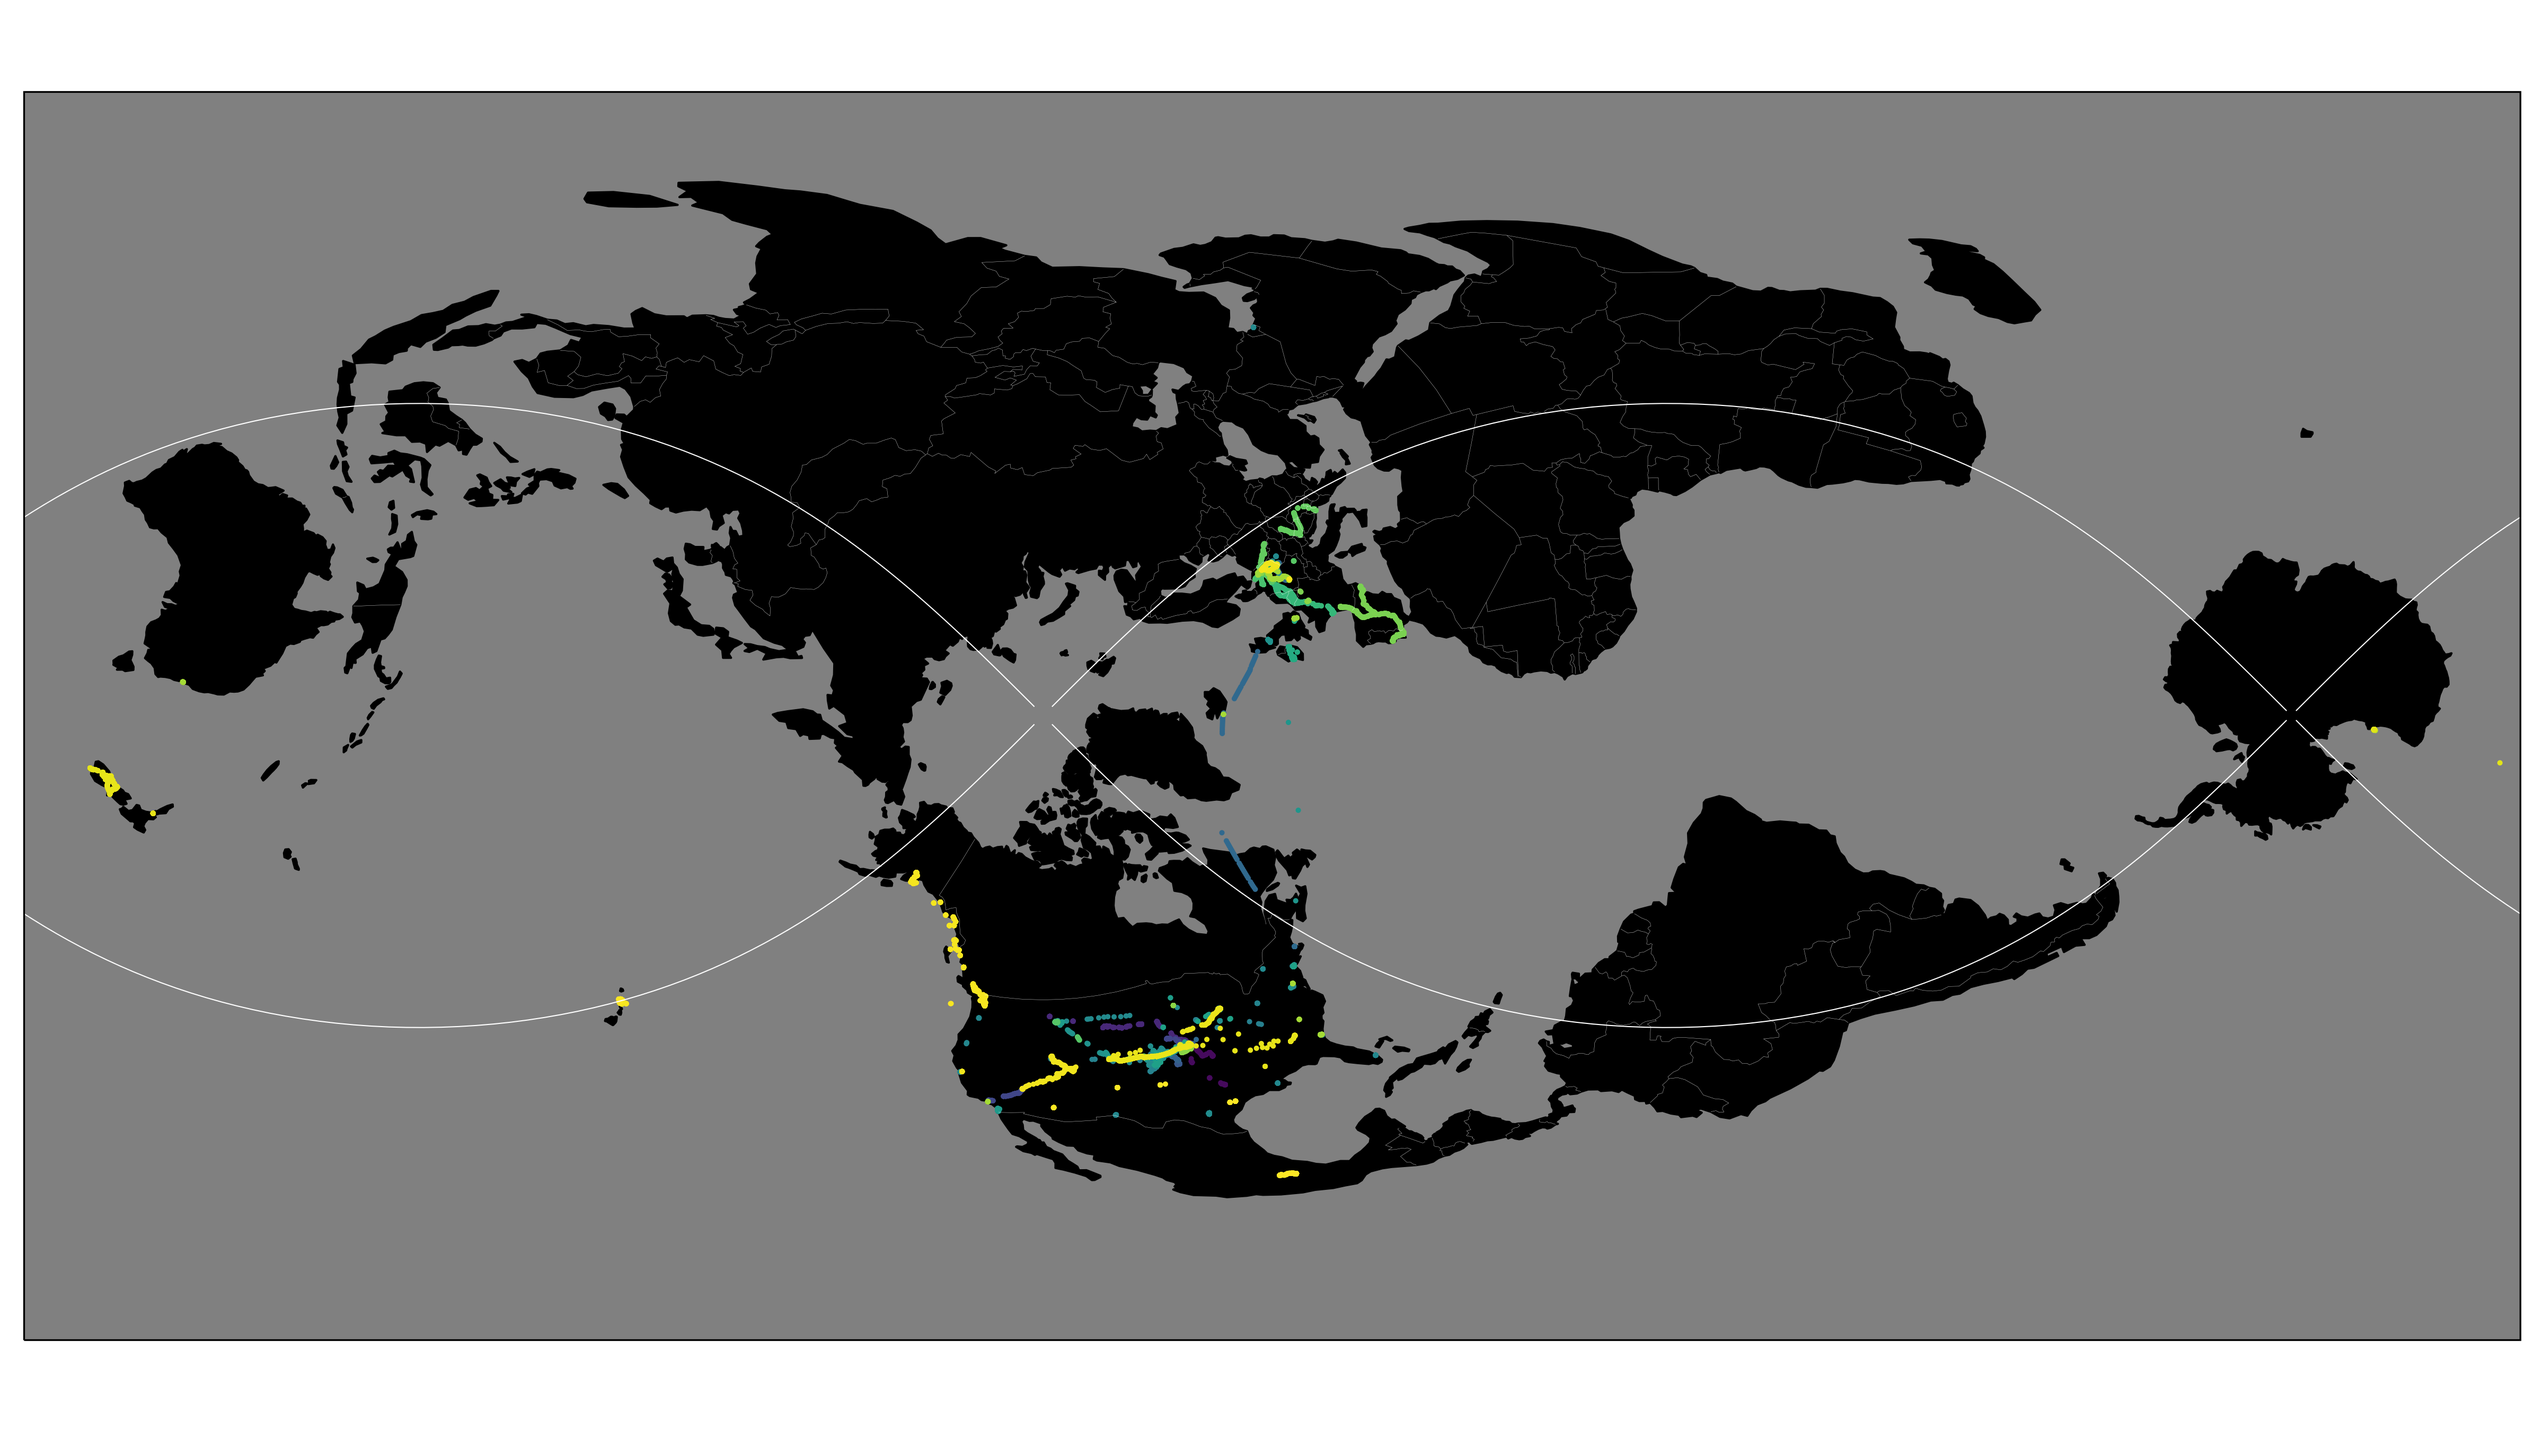
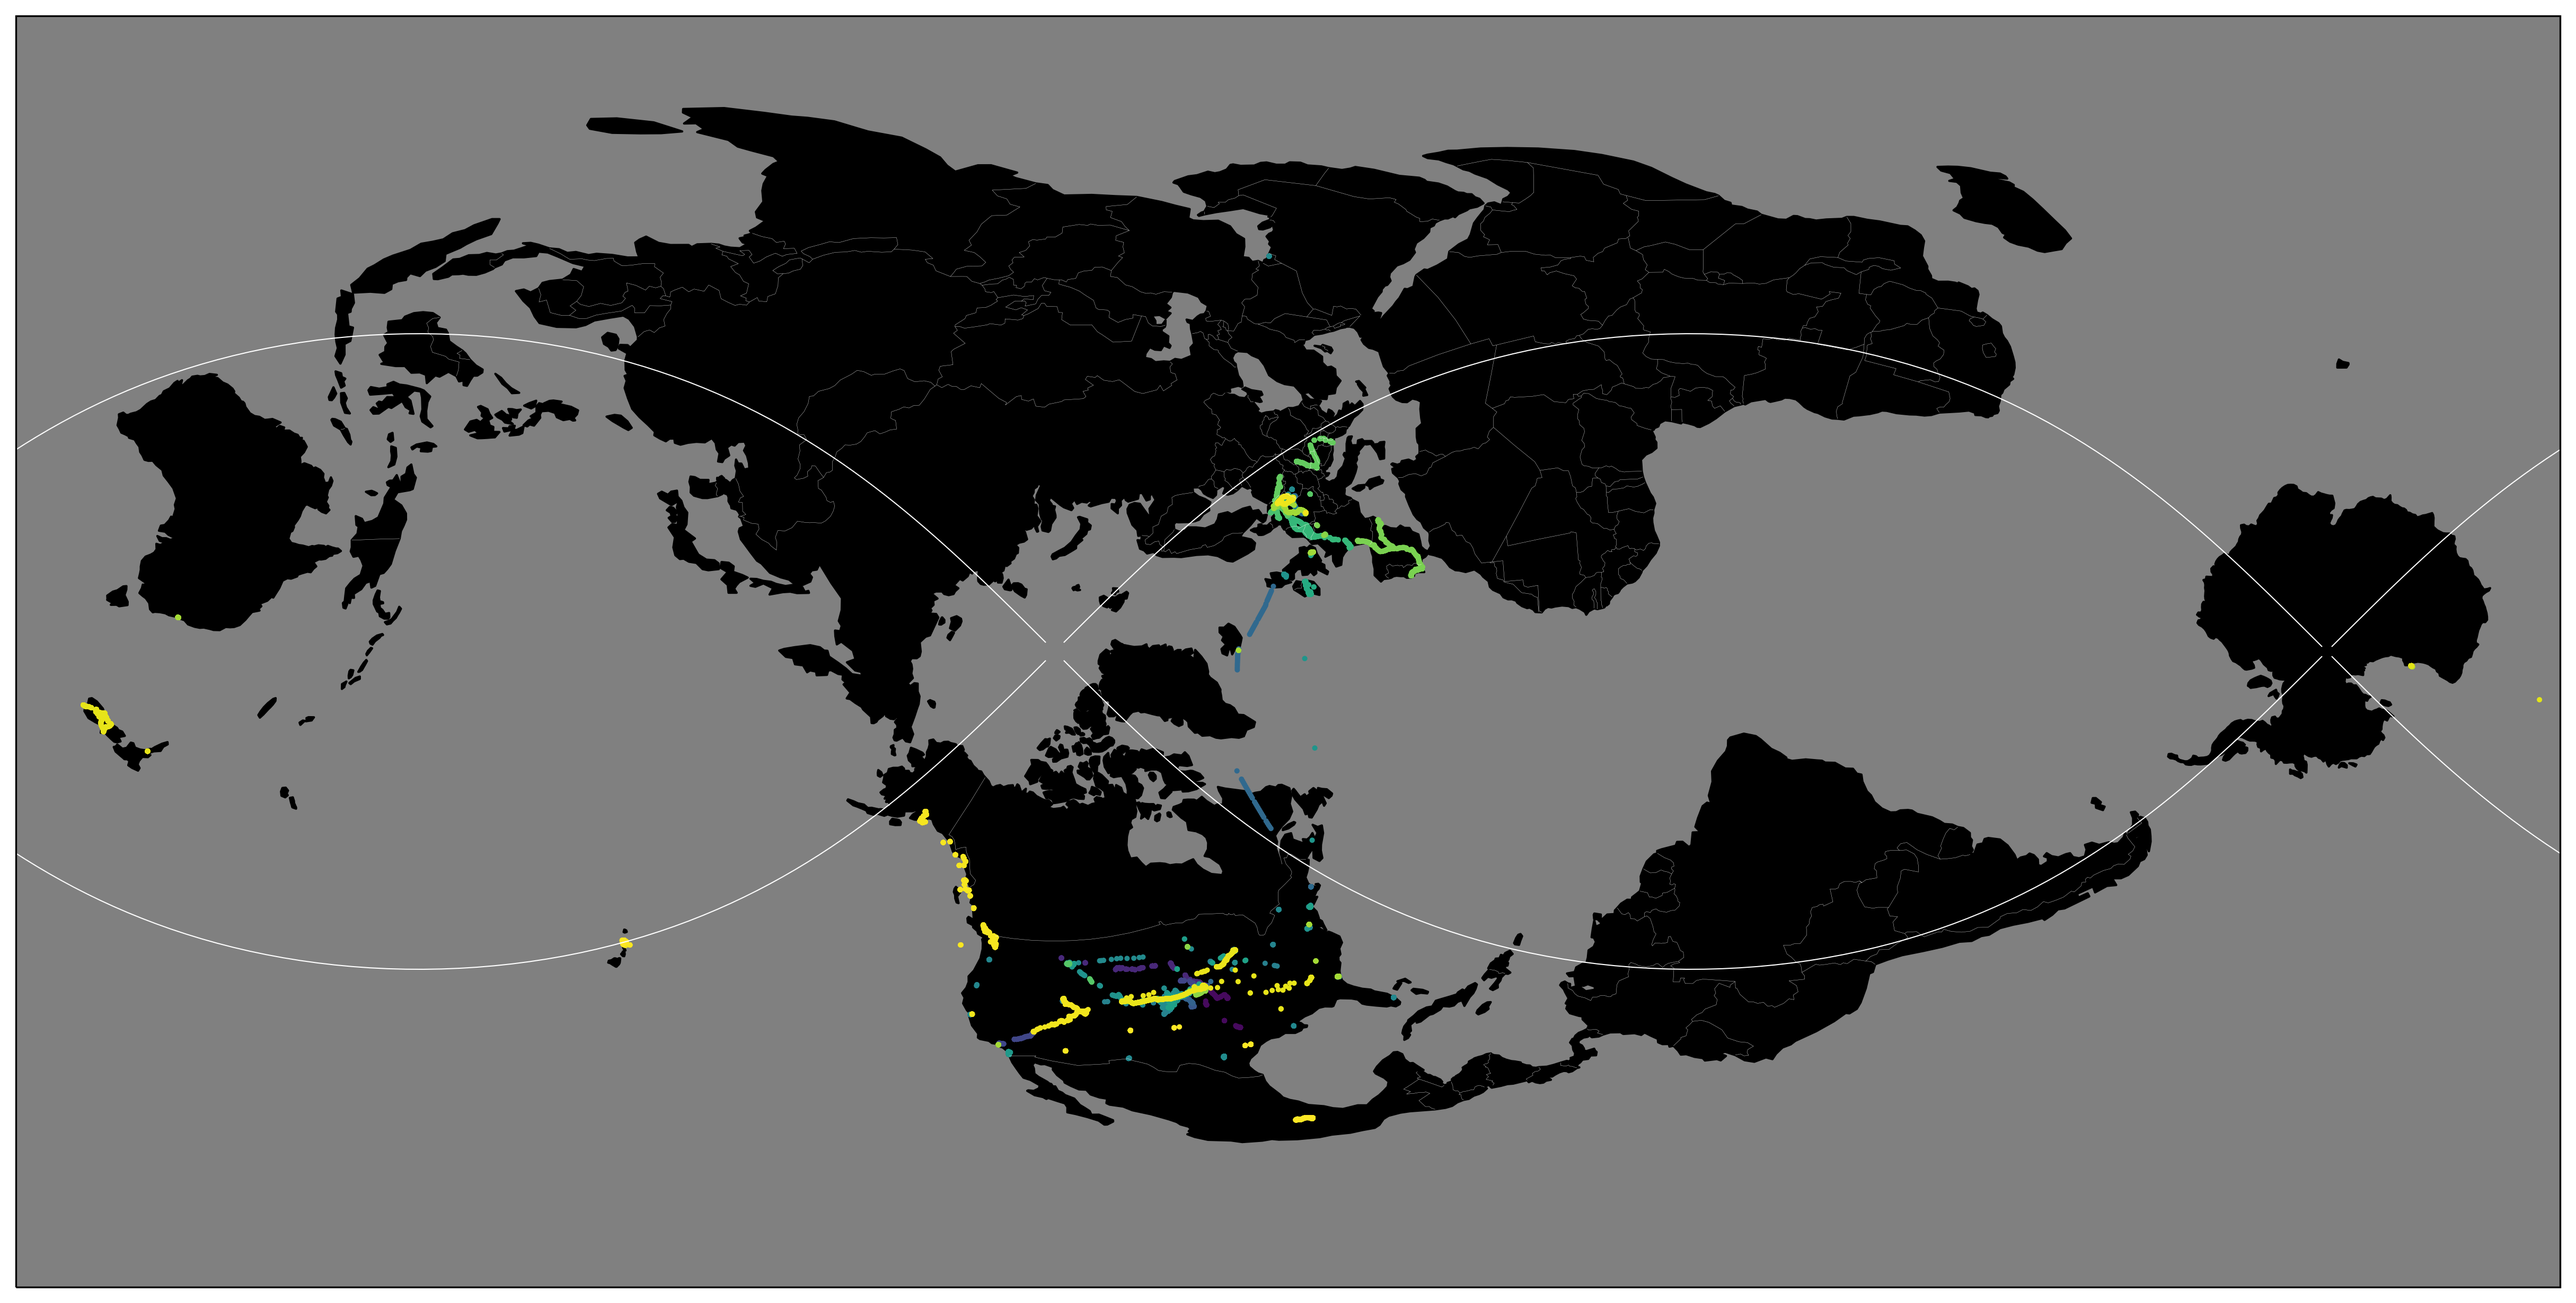
edited zoomed borders

diff --git a/whereivebeen/whereivebeen.py b/whereivebeen/whereivebeen.py
@@ -47,8 +47,8 @@ def mapping(lats, lons, times):
     plt.scatter(lons, lats, transform=ccrs.PlateCarree(),
                 c=timedelta, s=2, cmap='viridis')
     
-    plt.tight_layout()
-    plt.savefig('whereivebeen_zoomed.png', transparent=True)
+    plt.subplots_adjust(top=1, bottom=0, right=1, left=0, hspace=0, wspace=0)
+    plt.savefig('whereivebeen_zoomed.png', transparent=True, bbox_inches='tight')
 
     cbar = plt.colorbar(location='bottom', fraction=0.09, pad=0.00, aspect=50)
     cbar.set_ticks(ticks=[timedelta[0], timedelta[-1]], labels=[str(times[0])[:10], str(times[-1])[:10]], color='w')
